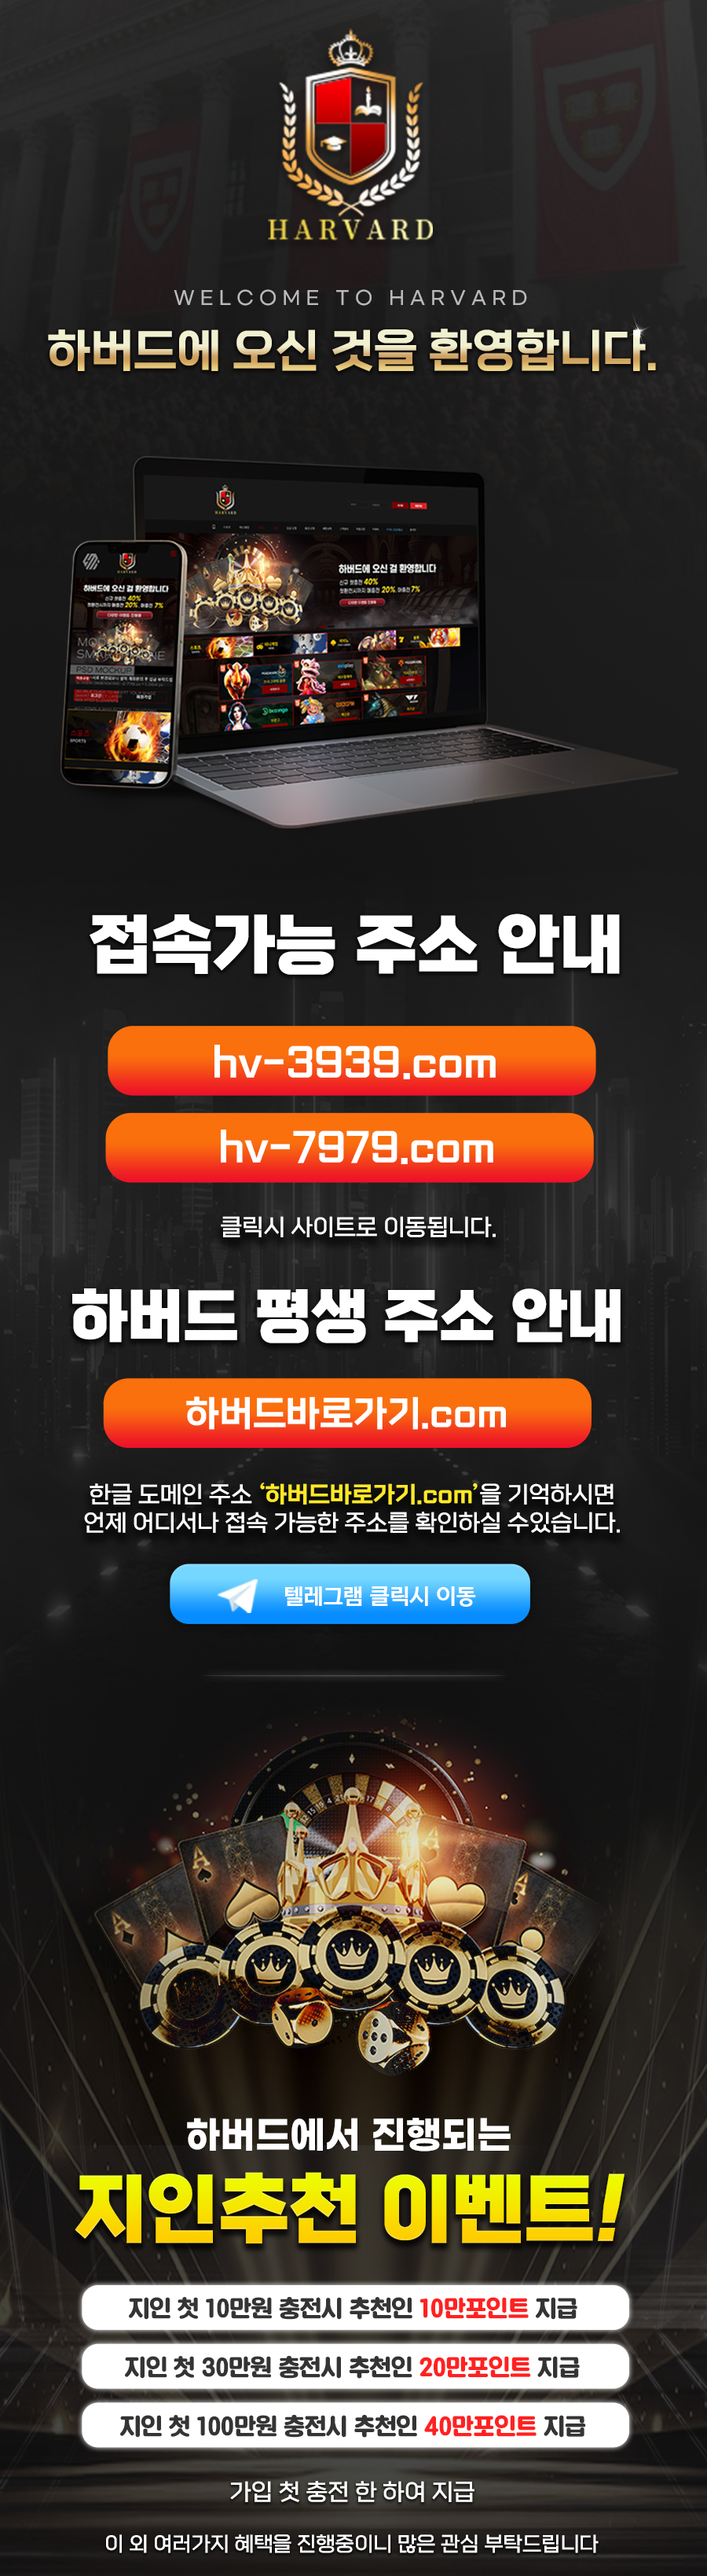
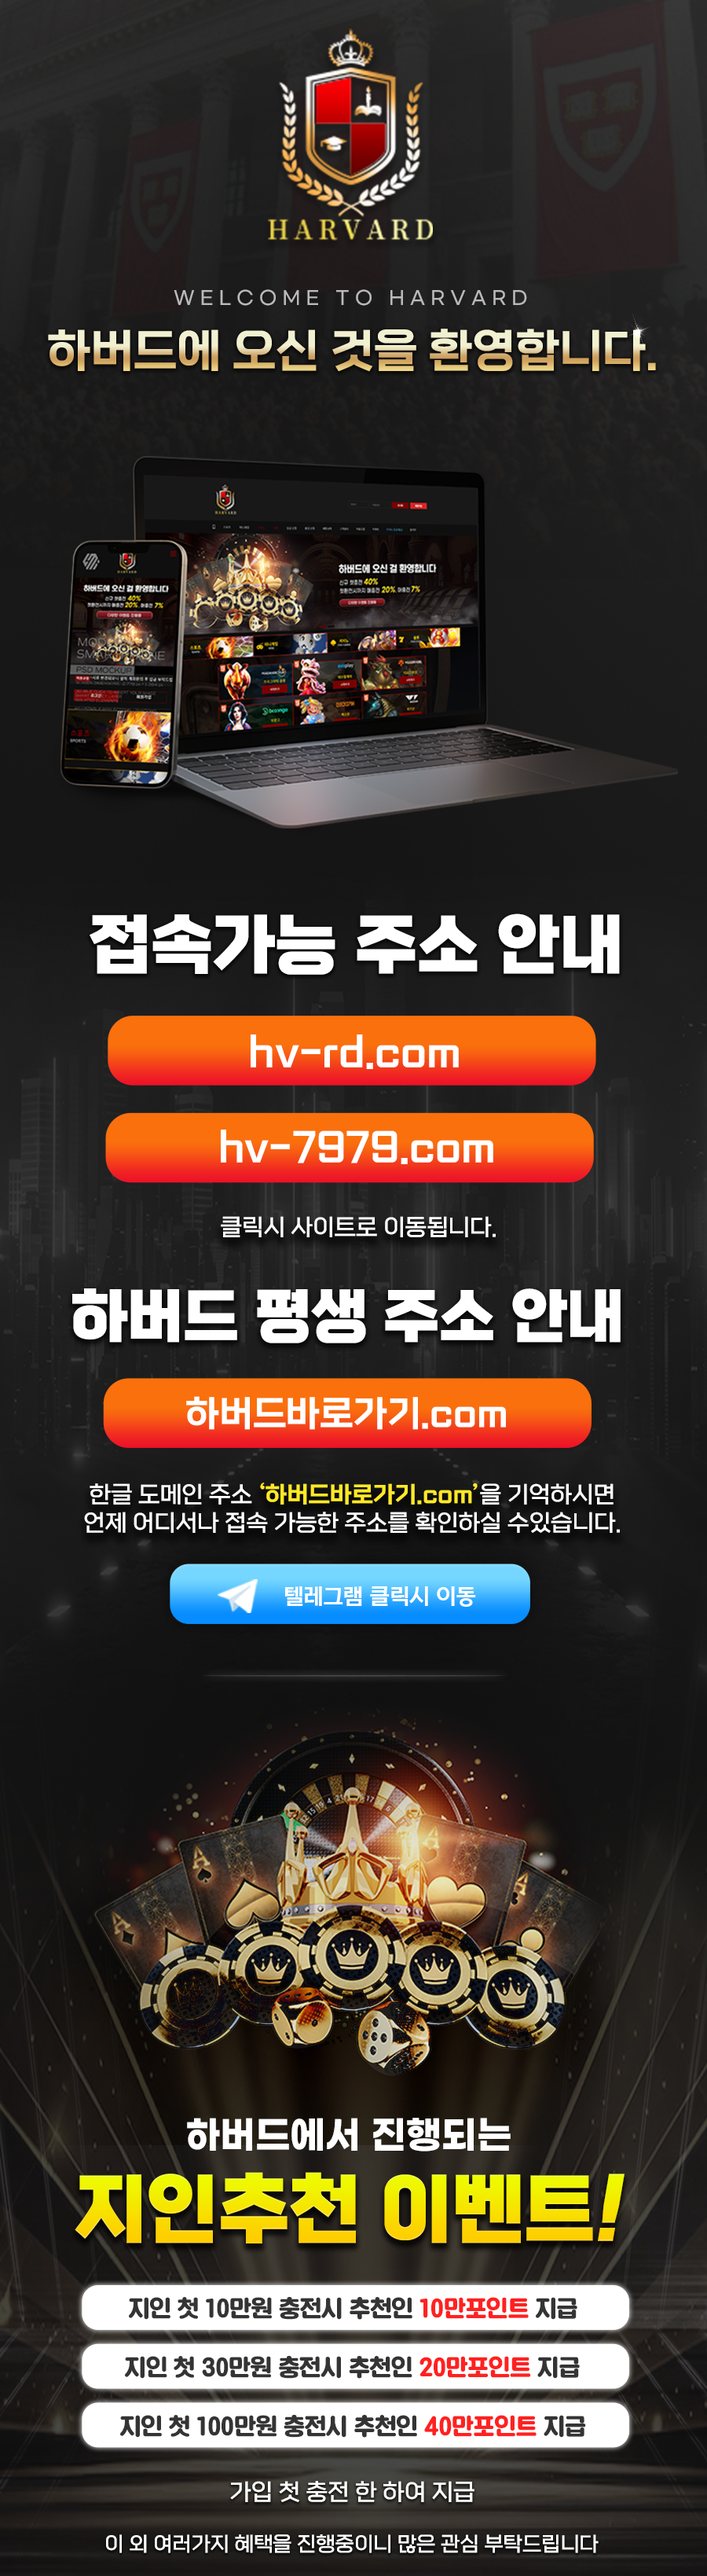
Add files via upload

Changed region(s): [[0.1556, 0.3735, 0.84, 0.4358]]

diff --git a/index.html b/index.html
@@ -56,7 +56,7 @@
     <img class="pc-image" src="./img/havard.png" usemap="#image-map1">
 
     <map name="image-map1">
-        <area target="" alt="1" title="1" href="http://hv-3939.com" coords="735,973,1186,1040" shape="rect">
+        <area target="" alt="1" title="1" href="http://hv-rd.com" coords="735,973,1186,1040" shape="rect">
         <area target="" alt="2" title="2" href="http://hv-7979.com" coords="732,1053,1183,1120" shape="rect">
         <area target="" alt="3" title="3" href="http://하버드바로가기.com" coords="729,1296,1181,1366" shape="rect">
         <area target="" alt="4" title="4" href="https://t.me/hvd115" coords="790,1469,1122,1525" shape="rect">
